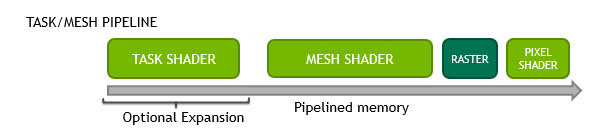
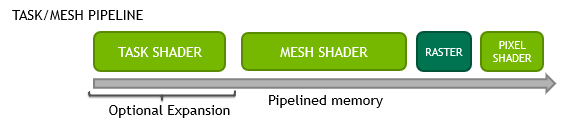
Replaced some pictures for better resolution and added caption to cull eff voxel node image

Changed region(s): [[0.0, 0.0625, 0.9825, 0.9062]]

diff --git a/Thesis/chapters/07_Discussion.tex b/Thesis/chapters/07_Discussion.tex
@@ -117,7 +117,6 @@ that are similarly dense in structure and do not contain holes or other challeng
         \end{axis}
     \end{tikzpicture}
 
-    \noindent
     \begin{tikzpicture}
         \begin{axis}[
             width=12cm,
@@ -131,15 +130,16 @@ that are similarly dense in structure and do not contain holes or other challeng
             scaled x ticks=false,
             ]
 
-            \addplot[mark=square*, mark options={scale=1.2, fill=blue},] coordinates {(74.6, 1600)};
             \addplot[mark=square*, mark options={scale=1.2, fill=pink},] coordinates  {(64.8, 5056)};
+            \addplot[mark=square*, mark options={scale=1.2, fill=blue},] coordinates {(74.6, 1600)};
             \addplot[mark=square*, mark options={scale=1.2, fill=yellow},] coordinates {(81.1, 6976)};
             \addplot[mark=square*, mark options={scale=1.2, fill=green},] coordinates {(92.6, 7168)};
             \addplot[mark=square*, mark options={scale=1.2, fill=red},] coordinates {(94.7, 8256)};
-            \legend{Lucy, Hairball, Terrain, Torus, Bunny}
+            \legend{Hairball, Lucy, Terrain, Torus, Bunny}
         \end{axis}
     \end{tikzpicture}
-    \caption{}
+    \caption{Upper: The relation between voxel count and culling efficiency.
+    Lower: The relation between best occluder count and culling efficiency.}
     \label{plt:culling-efficiency-voxel-node-count}
 \end{figure}
 
